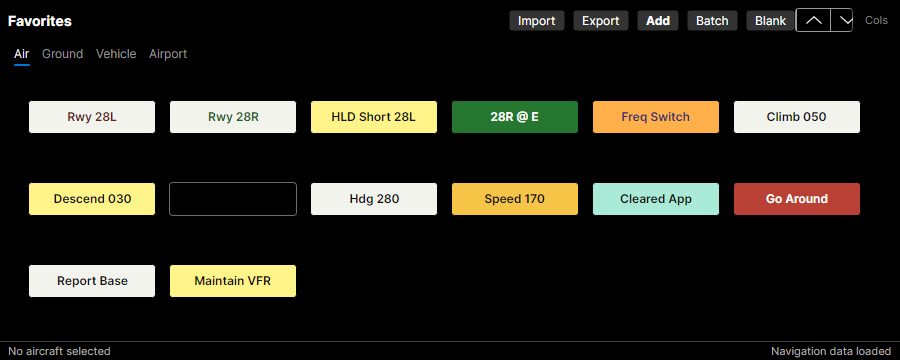
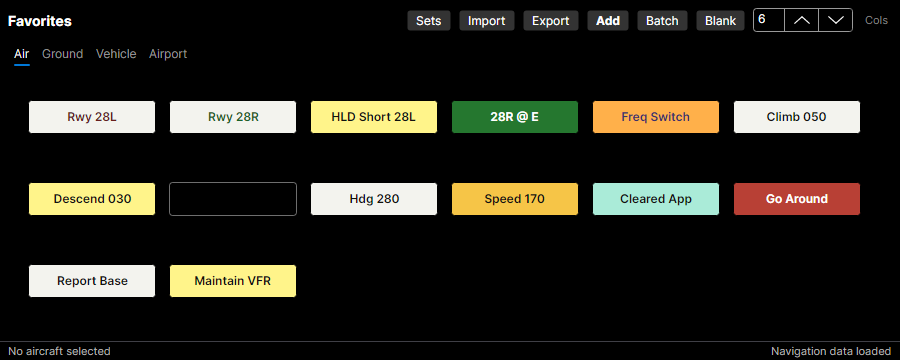
fix: favorites panel Cols spinner clipping and header spacing
- Cols spinner wide enough for the Fluent spinner buttons + value text
- 8px gap between Blank and the spinner like the rest of the header
- add/edit flyout W/H boxes fit 3-digit values
- regenerate favorites-panel user-guide screenshot

Closes #359

Changed region(s): [[0.4356, 0.0306, 0.6844, 0.0917], [0.7156, 0.0, 0.9644, 0.0917]]

diff --git a/tests/Yaat.Client.UI.Tests/Views/FavoritesPanelHeaderLayoutTests.cs b/tests/Yaat.Client.UI.Tests/Views/FavoritesPanelHeaderLayoutTests.cs
@@ -1,0 +1,105 @@
+using Avalonia;
+using Avalonia.Controls;
+using Avalonia.Controls.Primitives;
+using Avalonia.Headless.XUnit;
+using Avalonia.VisualTree;
+using Xunit;
+using Yaat.Client.UI.Tests.Fakes;
+using Yaat.Client.UI.Tests.Helpers;
+using Yaat.Client.ViewModels;
+using Yaat.Client.Views;
+
+namespace Yaat.Client.UI.Tests.Views;
+
+/// <summary>
+/// Layout coverage for issue #359: the "Cols" NumericUpDown in the Favorites Panel header was
+/// 58px wide while the Fluent spinner's two RepeatButtons alone need 68px, so the value text was
+/// squeezed to zero width and the decrease (down) button overflowed the control's border. The
+/// spinner also had no margin, so the "Blank" button sat flush against it while every other
+/// header control keeps an 8px gap.
+/// </summary>
+public class FavoritesPanelHeaderLayoutTests
+{
+    private const double Epsilon = 0.5;
+
+    private static (Window Window, FavoritesBarView View, NumericUpDown ColumnsBox) ShowPalette()
+    {
+        var vm = new MainViewModel(new FakeFilePickerService());
+        var view = new FavoritesBarView { IsPaletteMode = true };
+        var window = new Window
+        {
+            Width = 800,
+            Height = 450,
+            Content = view,
+            DataContext = vm,
+        };
+        window.ShowAndRunLayout();
+
+        var columnsBox = view.GetVisualDescendants().OfType<NumericUpDown>().Single();
+        return (window, view, columnsBox);
+    }
+
+    [AvaloniaFact]
+    public void ColumnsSpinner_ButtonsFitInsideControlBounds()
+    {
+        var (window, _, columnsBox) = ShowPalette();
+        try
+        {
+            var spinnerButtons = columnsBox.GetVisualDescendants().OfType<RepeatButton>().ToList();
+            Assert.Equal(2, spinnerButtons.Count);
+
+            foreach (var button in spinnerButtons)
+            {
+                var origin = button.TranslatePoint(new Point(0, 0), columnsBox);
+                Assert.NotNull(origin);
+                var rightEdge = origin.Value.X + button.Bounds.Width;
+                Assert.True(
+                    (origin.Value.X >= -Epsilon) && (rightEdge <= columnsBox.Bounds.Width + Epsilon),
+                    $"Spinner button '{button.Name}' spans x=[{origin.Value.X:F1}, {rightEdge:F1}] "
+                        + $"but the control is only {columnsBox.Bounds.Width:F1} wide"
+                );
+            }
+        }
+        finally
+        {
+            window.Close();
+        }
+    }
+
+    [AvaloniaFact]
+    public void ColumnsSpinner_ValueTextIsVisible()
+    {
+        var (window, _, columnsBox) = ShowPalette();
+        try
+        {
+            var textBox = columnsBox.GetVisualDescendants().OfType<TextBox>().Single();
+            Assert.True(textBox.Bounds.Width >= 20, $"Value TextBox is only {textBox.Bounds.Width:F1}px wide — the column count is not visible");
+        }
+        finally
+        {
+            window.Close();
+        }
+    }
+
+    [AvaloniaFact]
+    public void ColumnsSpinner_HasSameGapFromBlankButtonAsOtherHeaderControls()
+    {
+        var (window, view, columnsBox) = ShowPalette();
+        try
+        {
+            var blankButton = view.GetVisualDescendants().OfType<Button>().Single(b => b.Content as string == "Blank");
+
+            var blankOrigin = blankButton.TranslatePoint(new Point(0, 0), view);
+            var boxOrigin = columnsBox.TranslatePoint(new Point(0, 0), view);
+            Assert.NotNull(blankOrigin);
+            Assert.NotNull(boxOrigin);
+
+            var gap = boxOrigin.Value.X - (blankOrigin.Value.X + blankButton.Bounds.Width);
+            Assert.True(gap >= 8 - Epsilon, $"Gap between the Blank button and the Cols spinner is {gap:F1}px; header controls keep an 8px gap");
+        }
+        finally
+        {
+            window.Close();
+        }
+    }
+}

diff --git a/src/Yaat.Client/Views/FavoritesBarView.axaml.cs b/src/Yaat.Client/Views/FavoritesBarView.axaml.cs
@@ -191,7 +191,10 @@ public partial class FavoritesBarView : UserControl
             Maximum = 20,
             Increment = 1,
             FormatString = "0",
-            Width = 58,
+            // The Fluent spinner's two RepeatButtons alone need 68px; anything narrower hides the
+            // value text and clips the decrease button outside the border (issue #359).
+            Width = 100,
+            Margin = new Thickness(8, 0, 0, 0),
         };
         _columnsBox.ValueChanged += OnPanelColumnsChanged;
         DockPanel.SetDock(_columnsBox, Dock.Right);
@@ -1506,7 +1509,8 @@ public partial class FavoritesBarView : UserControl
             Minimum = (decimal)minimum,
             Maximum = (decimal)maximum,
             Increment = 2,
-            Width = 84,
+            // Wide enough for a 3-digit value next to the 68px Fluent spinner pair (issue #359).
+            Width = 110,
             Margin = new Thickness(0, 0, 4, 4),
         };
     }

diff --git a/CHANGELOG.md b/CHANGELOG.md
@@ -4,6 +4,7 @@
 
 ### Fixed
 - `CONS` of a non-leaf TCP on a facility with automatic consolidation disabled now redirects its unattended subsectors' handoffs to the receiver and suppresses server auto-accept there. (#357)
+- Favorites Panel: the "Cols" spinner no longer clips its down arrow outside the control's border and now actually shows the column count, and it keeps the same 8px gap from the Blank button as the rest of the header; the W/H boxes in the add/edit favorite flyouts are likewise wide enough to show 3-digit values. (#359)
 
 ## v0.12.8-beta [2026/08/15]
 
